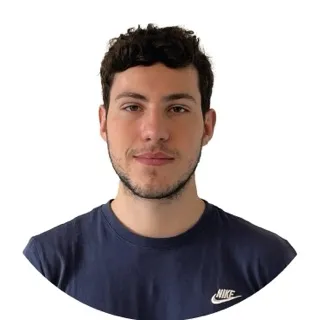
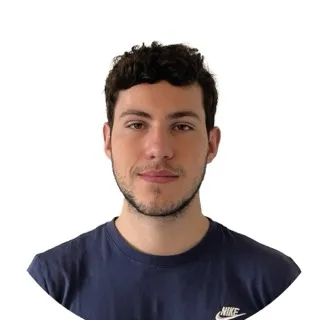
feat: reduced space between sections

Changed region(s): [[0.0625, 0.0625, 0.9375, 1.0]]

diff --git a/app/components/HeroSection.vue b/app/components/HeroSection.vue
@@ -1,5 +1,5 @@
 <template>
-  <section id="hero" class="relative min-h-screen flex items-center justify-center px-4 overflow-hidden">
+  <section id="hero" class="relative min-h-[calc(100vh-3rem)] flex items-center justify-center px-4 overflow-hidden">
     <!-- Globe background -->
     <!-- <GlobeCanvas /> -->
 
@@ -48,7 +48,7 @@
     </div>
 
     <!-- Scroll indicator -->
-    <div class="hero-fade absolute bottom-10 flex flex-col items-center gap-2" style="--delay: 1.2s;">
+    <div class="hero-fade absolute bottom-0 flex flex-col items-center gap-2" style="--delay: 1.2s;">
       <div class="w-6 h-10 rounded-full border-2 border-text-secondary/30 flex justify-center pt-6">
         <div class="w-1.5 h-1.5 rounded-full bg-orange-accent" style="animation: scroll-indicator 1.5s ease-in-out infinite;" />
       </div>

diff --git a/app/components/FooterSection.vue b/app/components/FooterSection.vue
@@ -1,5 +1,5 @@
 <template>
-  <footer class="border-t border-glass-border py-8">
+  <footer class="border-t border-glass-border mt-12 py-8">
     <div class="max-w-6xl mx-auto px-4 lg:px-8 flex flex-col sm:flex-row items-center justify-between gap-4">
       <p class="text-text-secondary text-sm">
         &copy; {{ new Date().getFullYear() }} Pierre-Yves • Guiraudet. {{ $t('footer.rights') }}

diff --git a/app/components/ExperienceSection.vue b/app/components/ExperienceSection.vue
@@ -1,5 +1,5 @@
 <template>
-  <section id="experience" class="py-24 px-4">
+  <section id="experience" class="pt-24 px-4">
     <div class="max-w-4xl mx-auto">
       <UiSectionTitle title-key="experience.title" />
 

diff --git a/app/components/ProjectsSection.vue b/app/components/ProjectsSection.vue
@@ -1,5 +1,5 @@
 <template>
-  <section id="projects" class="py-24 px-4">
+  <section id="projects" class="pt-24 pb-12 px-4">
     <div class="max-w-6xl mx-auto">
       <UiSectionTitle title-key="projects.title" />
 

diff --git a/app/components/ContactSection.vue b/app/components/ContactSection.vue
@@ -1,5 +1,5 @@
 <template>
-  <section id="contact" class="py-24 px-4">
+  <section id="contact" class="pt-24 pb-12 px-4">
     <div class="max-w-3xl mx-auto">
       <UiSectionTitle title-key="contact.title" />
 

diff --git a/app/components/SkillsSection.vue b/app/components/SkillsSection.vue
@@ -1,5 +1,5 @@
 <template>
-  <section id="skills" class="py-24 px-4">
+  <section id="skills" class="pt-24 pb-12 px-4">
     <div class="max-w-5xl mx-auto">
       <UiSectionTitle title-key="skills.title" />
 

diff --git a/app/components/AboutSection.vue b/app/components/AboutSection.vue
@@ -1,5 +1,5 @@
 <template>
-  <section id="about" class="py-24 px-4">
+  <section id="about" class="pt-24 pb-12 px-4">
     <div class="max-w-5xl mx-auto">
       <UiSectionTitle title-key="about.title" />
 
